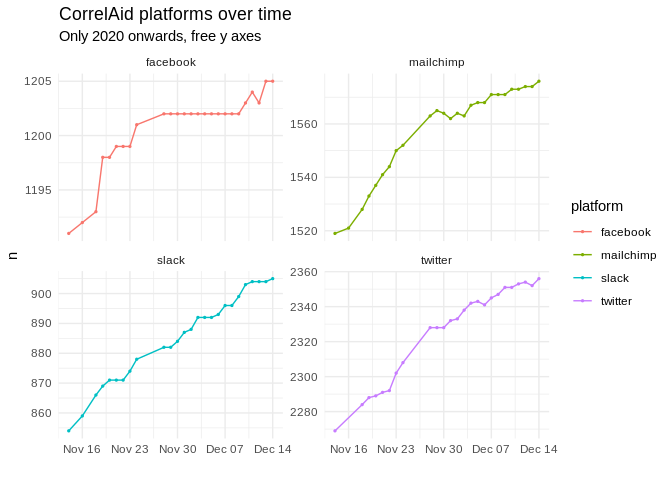
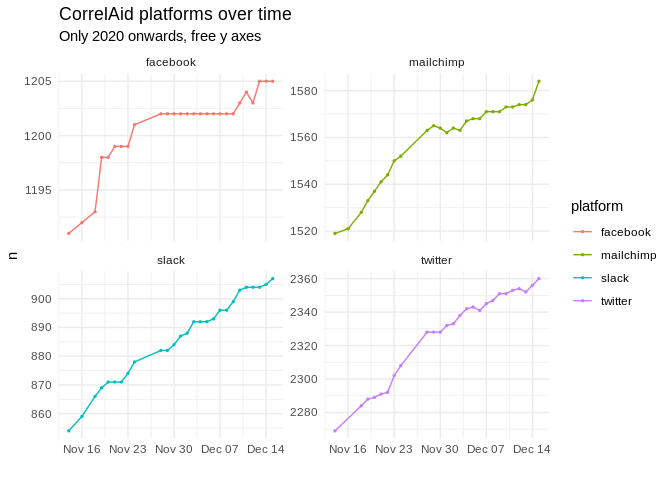
🤖 CRON - update daily data

diff --git a/README.md b/README.md
@@ -25,8 +25,8 @@ count and general network data on a daily basis using
 
 ### Plots
 
-*last updated*: 2020-12-14
-23:50:14
+*last updated*: 2020-12-15
+23:50:13
 
 ![](README_files/figure-gfm/plot-alltime-1.png)<!-- -->
 
